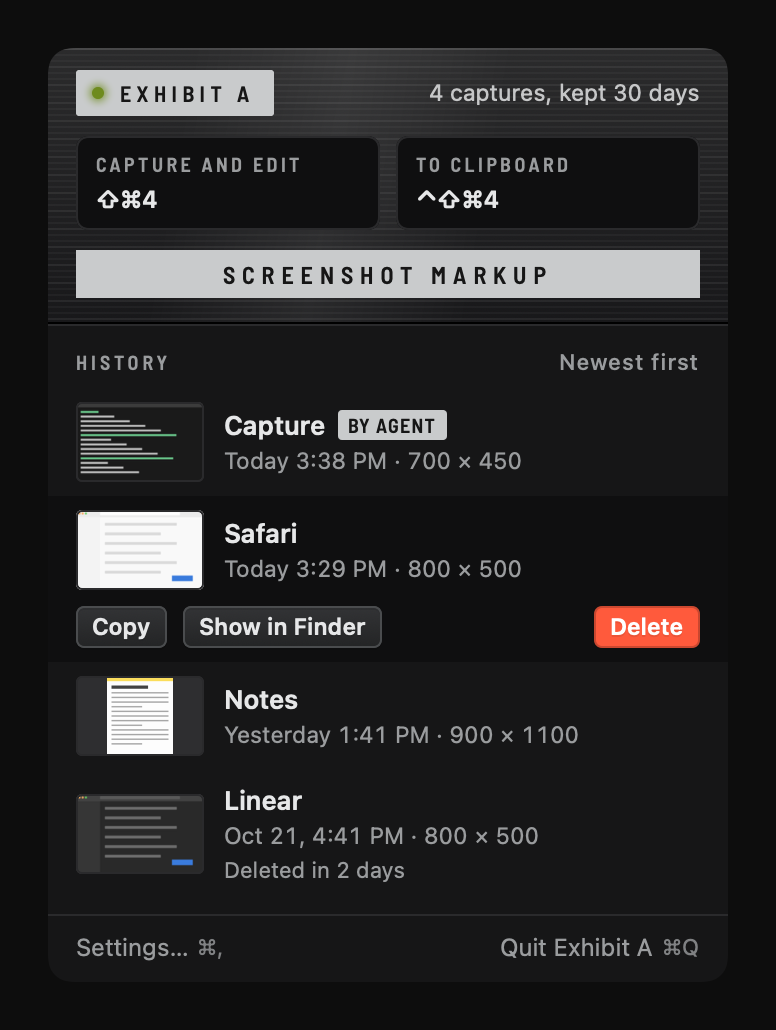
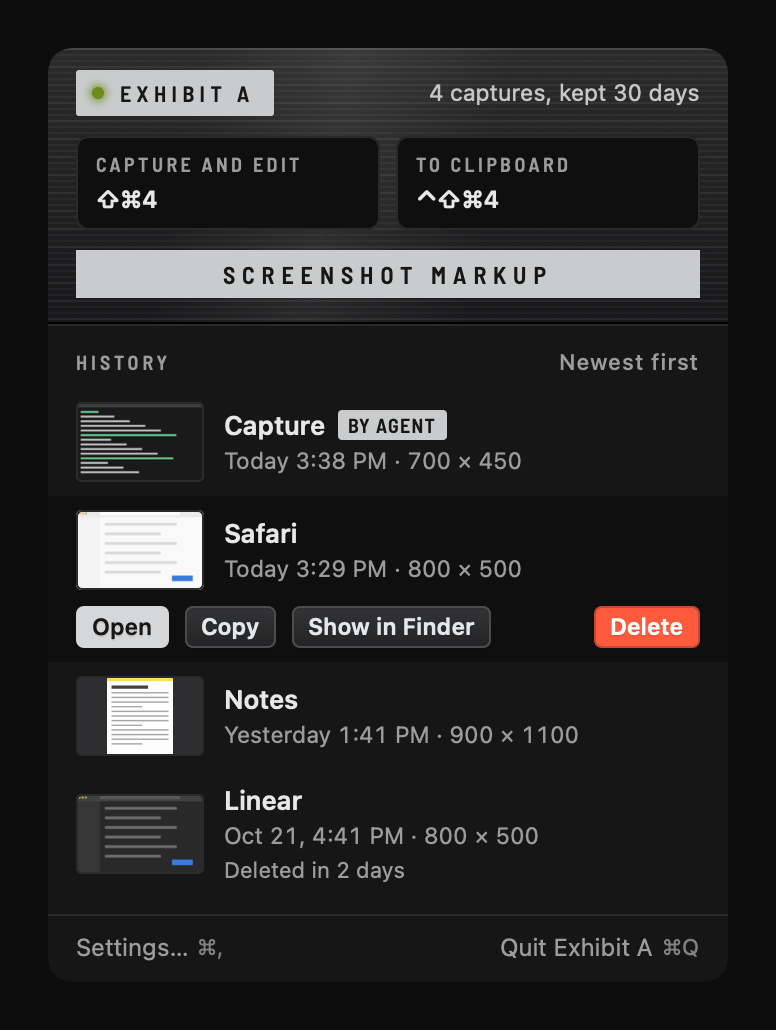
Open a capture from history with Open or a double-click

Changed region(s): [[0.0928, 0.5903, 0.6495, 0.6524]]

diff --git a/App/Panel/HistoryRowView.swift b/App/Panel/HistoryRowView.swift
@@ -4,7 +4,7 @@ import PanelKit
 import SwiftUI
 
 /// One capture: thumbnail, where it came from, when and how big, "by agent" for agent captures. Selecting a row
-/// shows its actions. The editor (unit 5) will open from here.
+/// shows its actions; Open or a double-click opens it in the editor.
 struct HistoryRowView: View {
     let row: HistoryRow
     let thumbnail: CGImage?
@@ -39,6 +39,8 @@ struct HistoryRowView: View {
             }
             if row.isSelected {
                 HStack(spacing: 8) {
+                    Button("Open") { actions.open(row.id) }
+                        .buttonStyle(PanelButtonStyle(.primary, size: .compact))
                     Button("Copy") { actions.copy(row.id) }
                     Button("Show in Finder") { actions.reveal(row.id) }
                     Spacer()
@@ -52,10 +54,12 @@ struct HistoryRowView: View {
         .padding(.vertical, 7)
         .background(row.isSelected ? theme.field : Color.clear)
         .contentShape(Rectangle())
+        .onTapGesture(count: 2) { actions.open(row.id) }
         .onTapGesture(perform: select)
         .accessibilityElement(children: .combine)
         .accessibilityLabel([row.title, row.tag, row.subtitle, row.expiry].compactMap { $0 }.joined(separator: ", "))
         .accessibilityAddTraits(row.isSelected ? [.isButton, .isSelected] : .isButton)
+        .accessibilityAction(named: "Open") { actions.open(row.id) }
     }
 }
 
